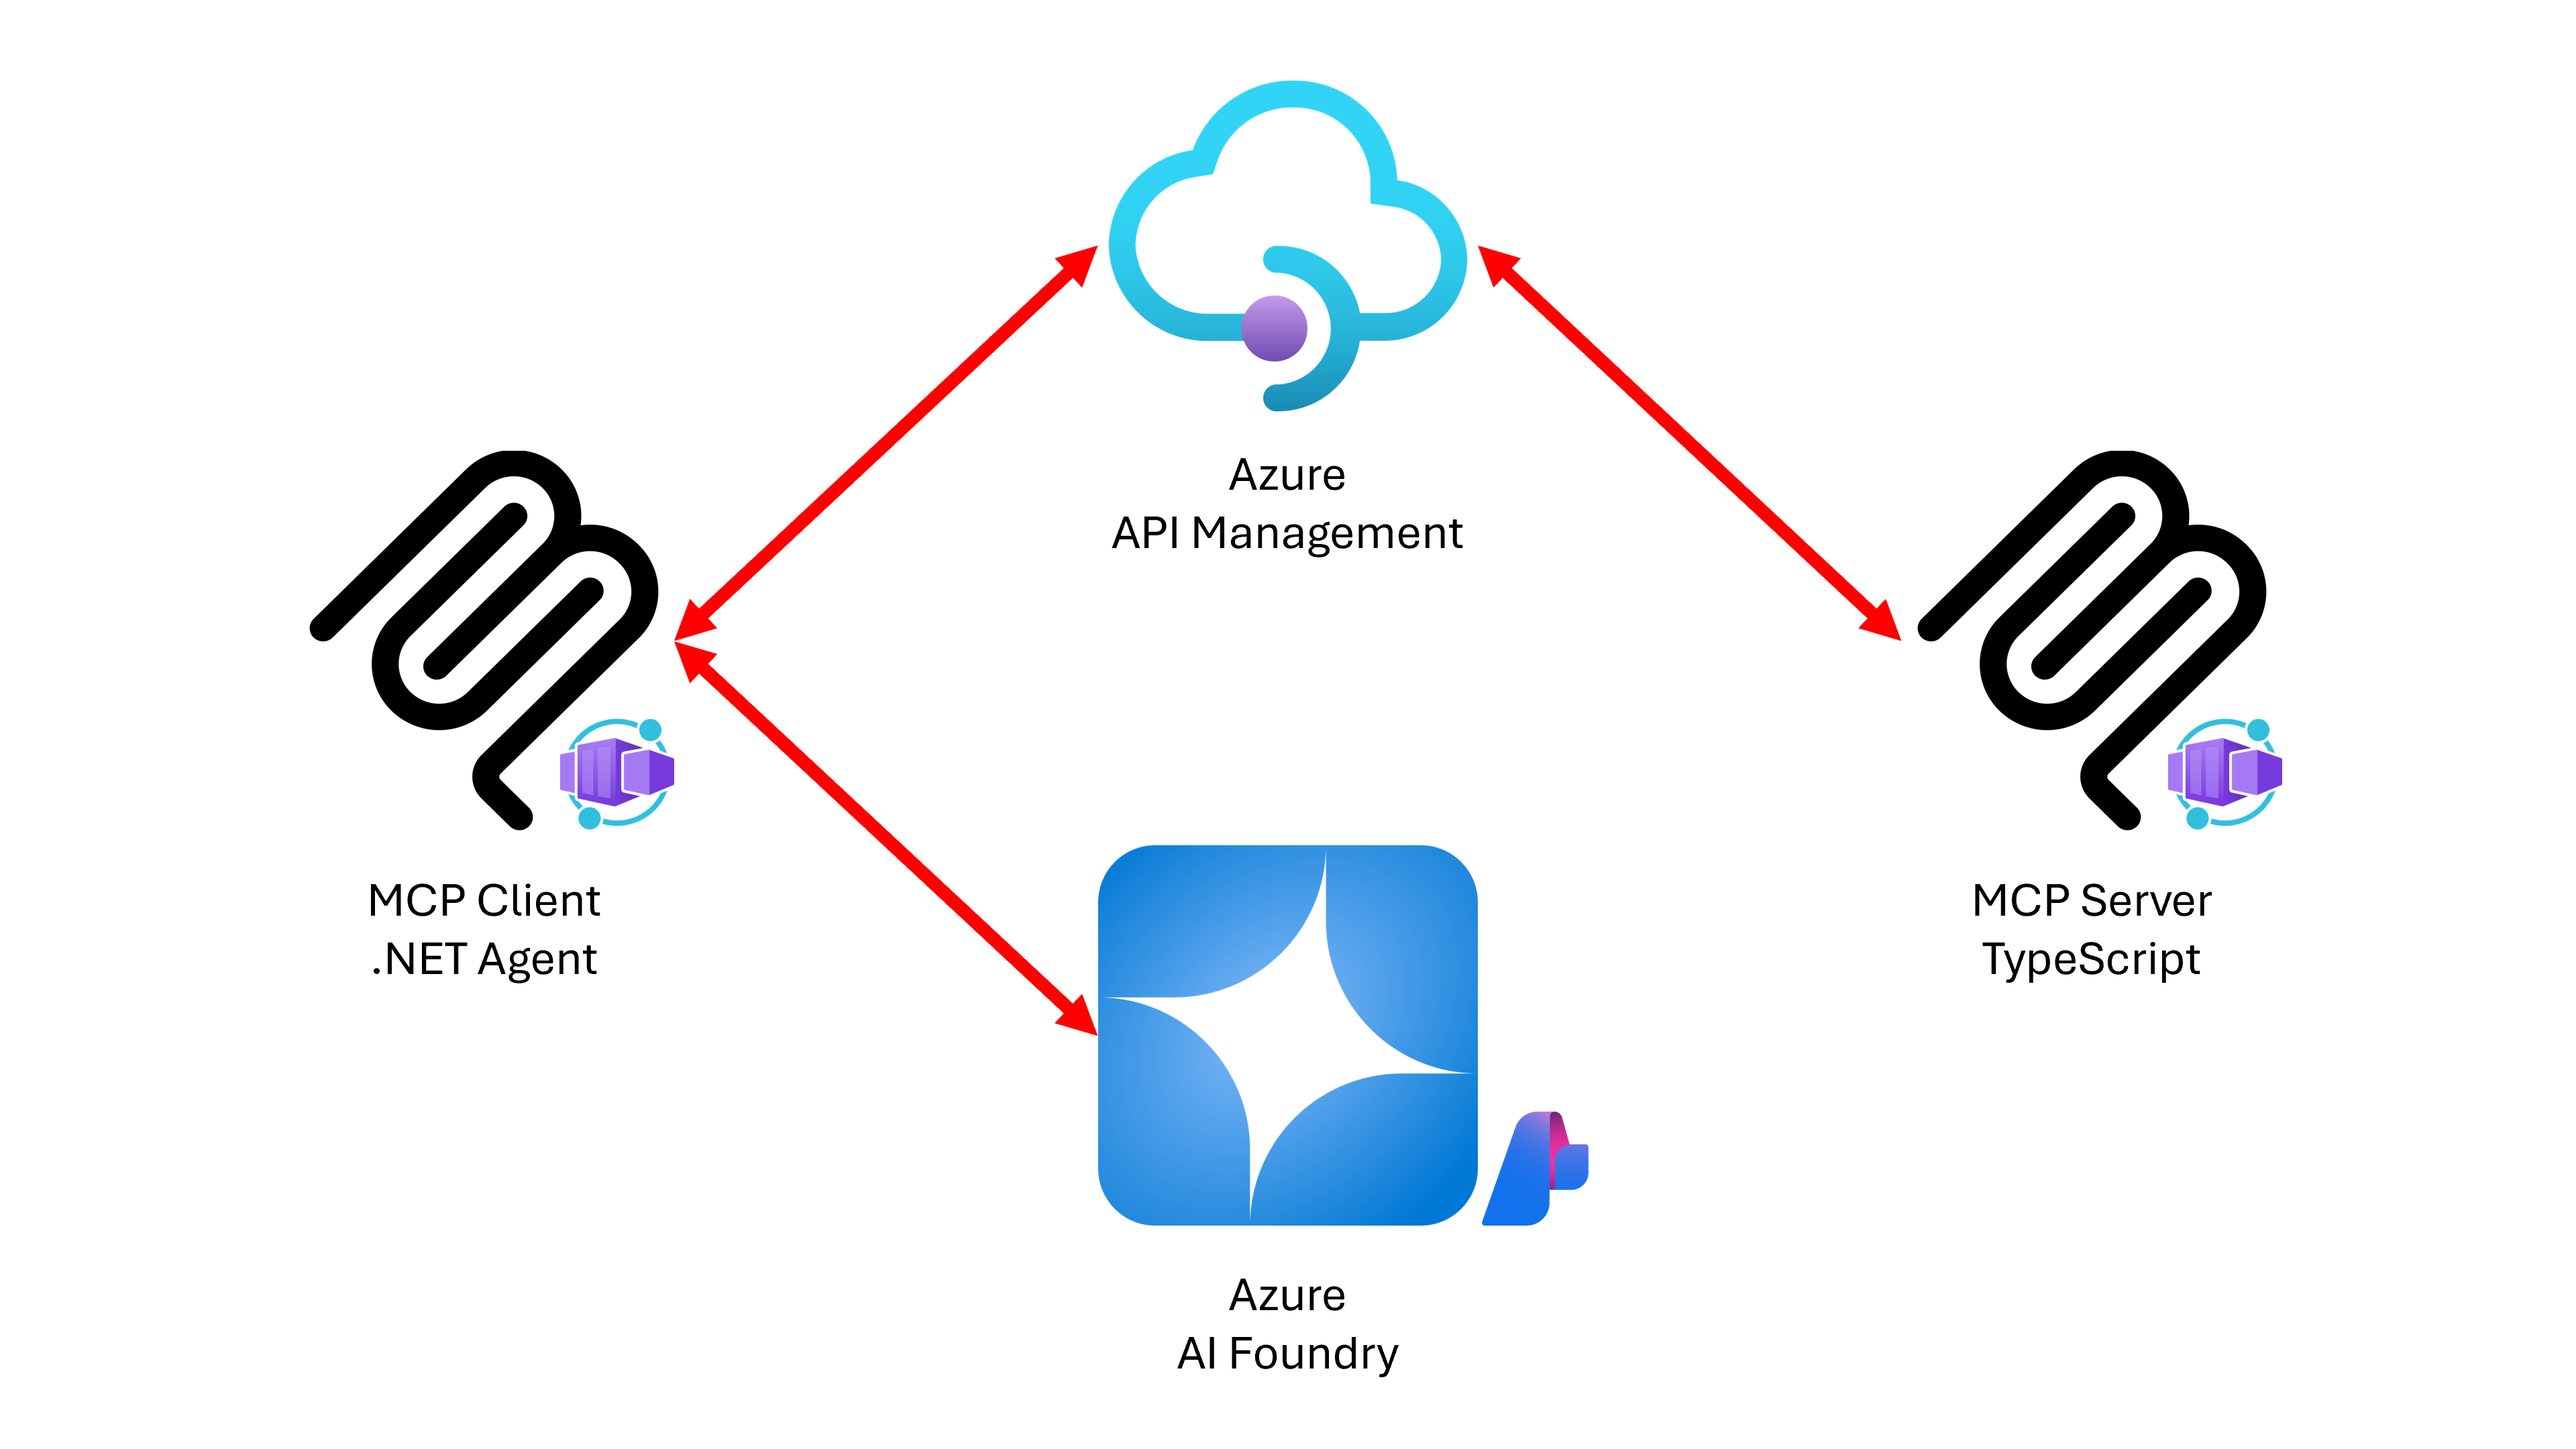
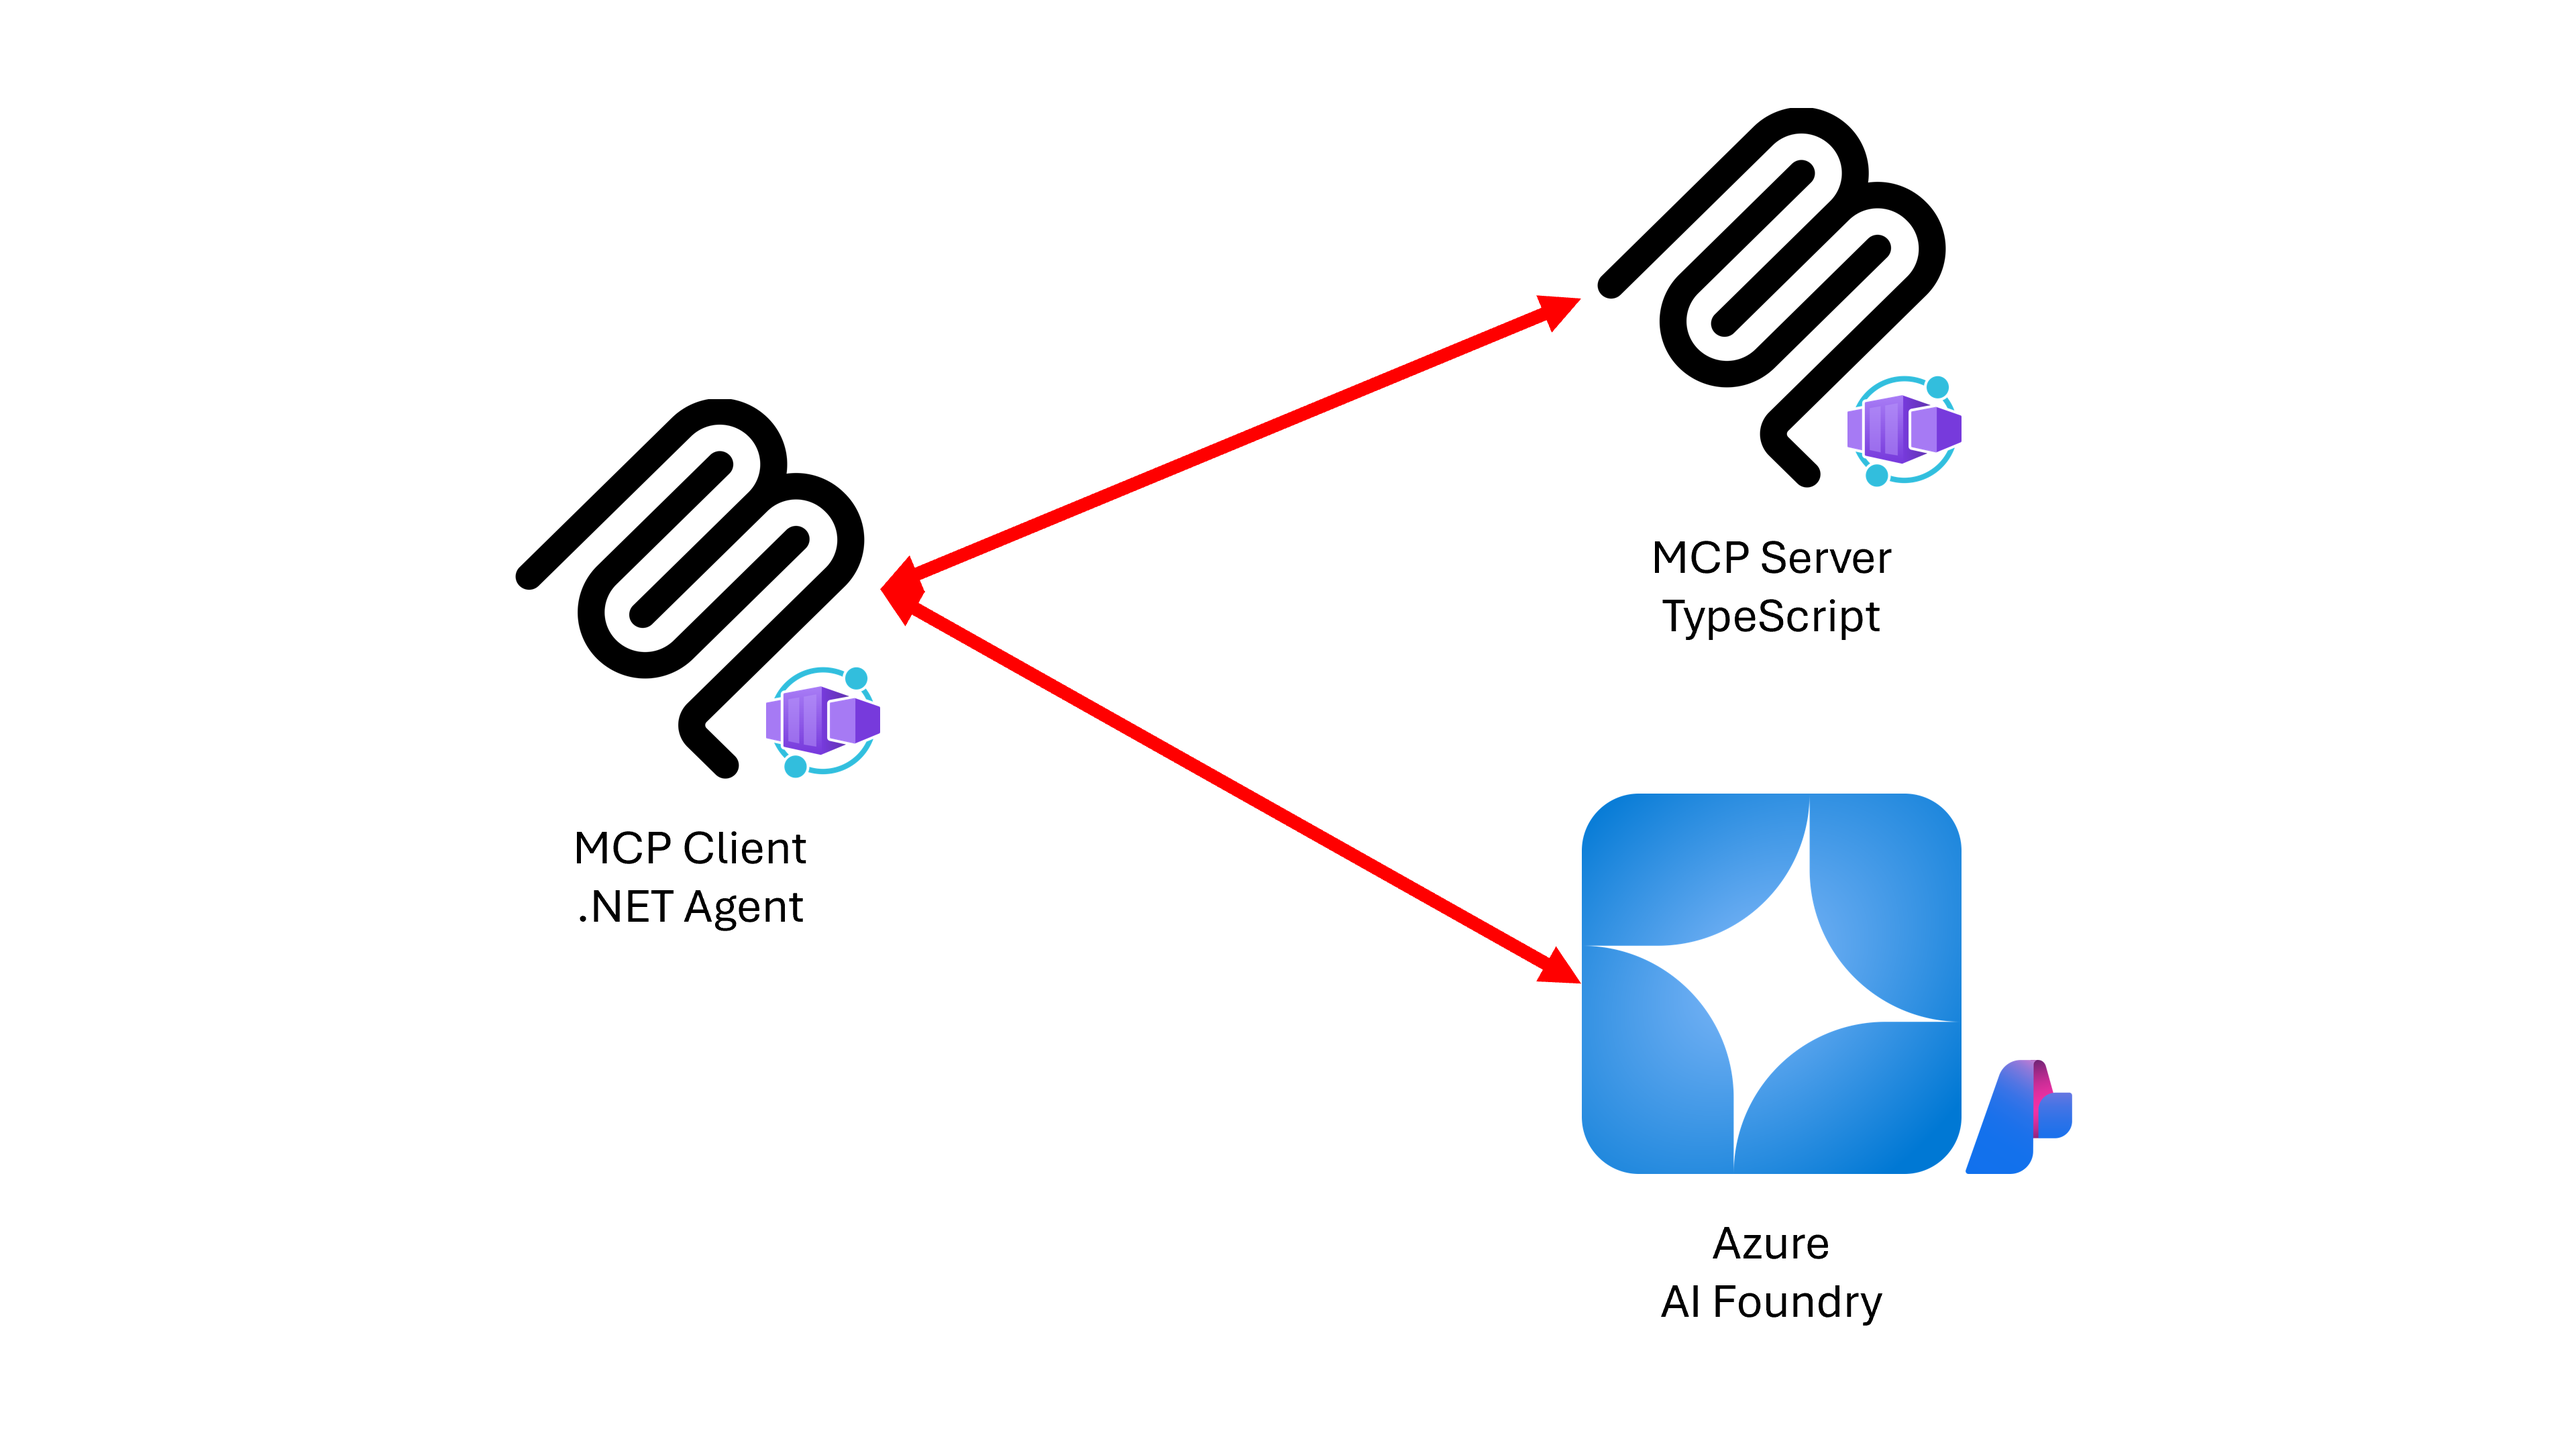
Update README
- Temporarily omit the APIM integration

diff --git a/README.md b/README.md
@@ -8,7 +8,9 @@ This app provides features like:
 
 - It is an MCP host + MCP client app written in .NET Blazor.
 - The MCP client app connects to a to-do MCP server written in TypeScript.
-- The MCP client app connects to any MCP server through Azure API Management.
+- Both MCP client and server apps are running on [Azure Container Apps (ACA)](https://learn.microsoft.com/azure/container-apps/overview).
+- The MCP client app is secured by the built-in auth of ACA.
+- The MCP server app is not publicly accessible.
 
 ![Overall architecture diagram](./images/overall-architecture-diagram.png)
 
@@ -108,7 +110,7 @@ This app provides features like:
     podman compose up --build
     ```
 
-1. Navigate to `https://localhost:8080` and enter prompts like:
+1. Navigate to `http://localhost:8080` and enter prompts like:
 
     ```text
     Give me list of to do.
@@ -153,4 +155,6 @@ This app provides features like:
 
 ## Resources
 
-TBD
+- [Model Context Protocol (MCP) C# SDK](https://github.com/modelcontextprotocol/csharp-sdk)
+- [MCP .NET samples](https://github.com/microsoft/mcp-dotnet-samples)
+- [MCP Todo app in TypeScript](https://github.com/Azure-Samples/mcp-container-ts)
